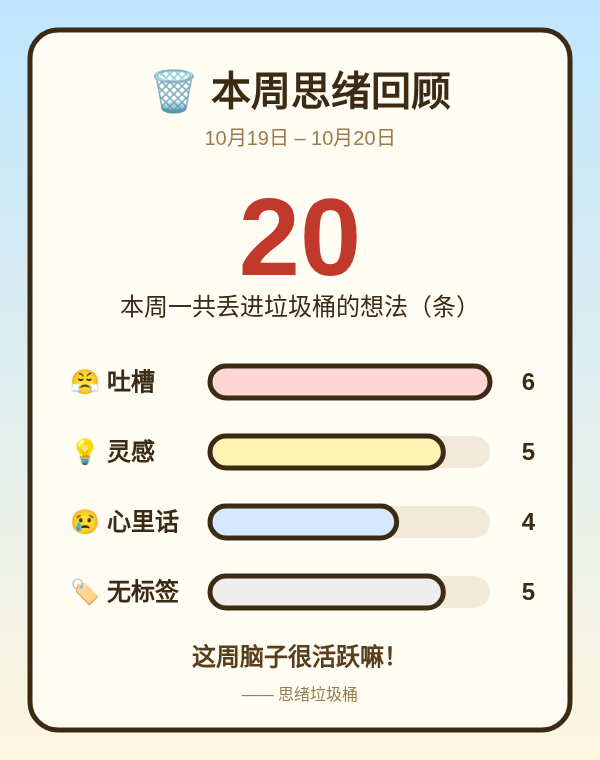
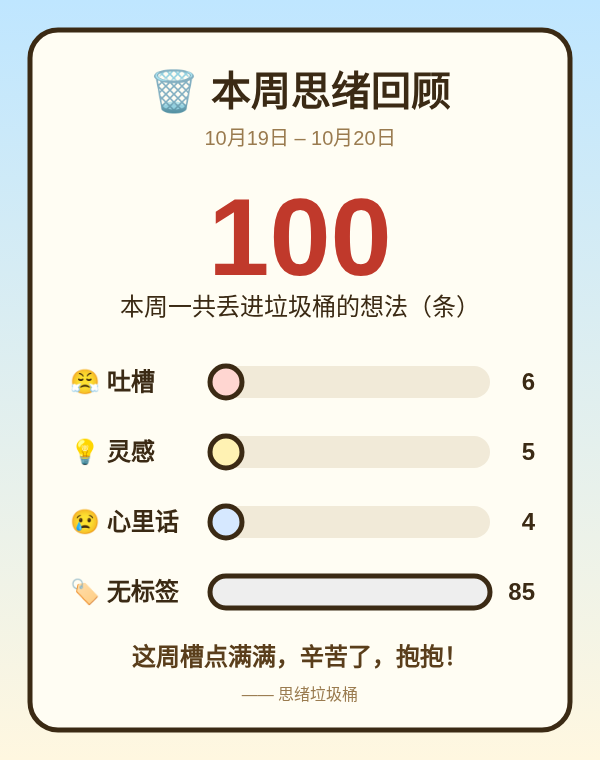
垃圾桶状态重做：去掉桶内纸堆，表情变化、20 条盖子翘起挤纸团、100 条喷纸拉锯；更新测试与截图

diff --git a/js/fill.js b/js/fill.js
@@ -1,24 +1,28 @@
-// 越吃越满：桶里的纸团随「未整理」想法数增多；满了会打嗝，提醒去 AI 整理
-export const FULL_AT = 20;   // 满桶阈值（未整理的条数）
-const LEVELS = 5;            // 纸堆层数
-// 每层几个纸团：[x, y, r]，从桶底往上堆
-const LAYERS = [
-  [[60, 205, 13], [88, 207, 14], [116, 206, 13], [142, 204, 12]],
-  [[66, 186, 13], [96, 188, 14], [126, 186, 13]],
-  [[56, 168, 12], [84, 170, 13], [112, 168, 13], [140, 170, 12]],
-  [[62, 150, 12], [92, 148, 13], [122, 150, 13], [148, 152, 10]],
-  [[52, 132, 11], [78, 128, 12], [104, 126, 13], [130, 129, 12], [154, 134, 10]],
-];
-export const levelFor = n => Math.min(LEVELS, Math.ceil((Math.min(n, FULL_AT) / FULL_AT) * LEVELS));
+// 越吃越满：按「未经 AI 整理」的想法条数改变垃圾桶状态（不再在桶里画纸堆，脸永远露在外面）
+//   0 条：笑脸        ≥1：不开心的脸
+//   ≥20：盖子合不上、微微翘起，纸团从盖子边挤出来；刚满 20（及之后每 5 条）打嗝提醒
+//   ≥100：纸团不停从桶口喷出，盖子拼命往下压、又被顶起来（拉锯抖动）
+export const FULL_AT = 20;
+export const BURST_AT = 100;
+export const stateFor = n => n >= BURST_AT ? 'struggle' : n >= FULL_AT ? 'ajar' : n > 0 ? 'unhappy' : 'happy';
+// 盖子边缘挤出的纸团 [x, y, r]（在盖子下、桶口上，不碰到脸）
+const PEEK = [[150, 46, 9], [166, 42, 8], [134, 49, 7], [176, 36, 7]];
+const ball = (x, y, r, cls = '', style = '') => `<circle class="${cls}" cx="${x}" cy="${y}" r="${r}" style="${style}" fill="#fffdf3" stroke="#b49a6a" stroke-width="2.5"/>`;
+let lastState;
 export function renderPile(unsorted) {
-  const g = document.getElementById('trash-pile'), lv = levelFor(unsorted);
-  g.innerHTML = LAYERS.slice(0, lv).flat().map(([x, y, r], i) =>
-    `<circle cx="${x}" cy="${y}" r="${r}" fill="${i % 3 ? '#fffdf3' : '#f3e7c9'}" stroke="#b49a6a" stroke-width="2"/>`).join('');
-  document.getElementById('trash').dataset.level = lv;
-  document.getElementById('trash').classList.toggle('full', unsorted >= FULL_AT);
-  return lv;
+  const t = document.getElementById('trash'), st = stateFor(unsorted);
+  t.dataset.state = st; t.dataset.unsorted = unsorted;
+  if (st === lastState) return st;
+  lastState = st;
+  const peek = document.getElementById('trash-peek'), burst = document.getElementById('trash-burst');
+  peek.innerHTML = st === 'ajar' || st === 'struggle' ? PEEK.map(([x, y, r], i) => ball(x, y, r, 'peek', `animation-delay:${-i * 0.37}s`)).join('') : '';
+  // 喷出的纸团：每个有自己的方向、距离和节奏，循环播放
+  burst.innerHTML = st === 'struggle' ? Array.from({ length: 18 }, (_, i) => {
+    const dx = (i % 2 ? 1 : -1) * (30 + (i * 37) % 90), dy = -(70 + (i * 53) % 80);
+    return ball(100 + (i % 5 - 2) * 18, 44, 8 + (i % 3) * 2.5, 'fly', `--dx:${dx}px;--dy:${dy}px;animation-duration:${1.1 + (i % 4) * 0.25}s;animation-delay:${-i * 0.21}s`);
+  }).join('') : '';
+  return st;
 }
-// 存完一条后调用：刚满 / 满后每多 5 条，打一次嗝
 export function shouldBurp(unsorted) { return unsorted >= FULL_AT && (unsorted - FULL_AT) % 5 === 0; }
 export function burp(toast) {
   const t = document.getElementById('trash');

diff --git a/css/style.css b/css/style.css
@@ -58,7 +58,6 @@ pre.result{white-space:pre-wrap;background:#fff;border:2px solid #ddd;padding:8p
 #trash.burp #trash-lid{animation:lidpop 1.1s ease-out}
 @keyframes burp{15%{transform:scale(1.08,.92)}35%{transform:scale(.94,1.08)}55%{transform:scale(1.03,.97)}}
 @keyframes lidpop{20%{transform:translateY(-28px) rotate(-12deg)}50%{transform:translateY(-4px)}}
-#trash.full #trash-mouth{d:path("M80 150 Q100 140 120 150")}
 .burp-bubble{position:absolute;top:-10px;left:62%;background:#fff;border:3px solid #3b2a14;border-radius:50%;padding:6px 12px;font-weight:bold;animation:burpup 1.6s ease-out forwards}
 @keyframes burpup{from{transform:translateY(20px) scale(.3);opacity:0}30%{opacity:1;transform:translateY(0) scale(1.1)}to{transform:translateY(-60px) scale(1);opacity:0}}
 
@@ -70,3 +69,24 @@ pre.result{white-space:pre-wrap;background:#fff;border:2px solid #ddd;padding:8p
 .note-item .acts{display:flex;flex-direction:column;gap:4px}
 .note-item .acts button{font-size:12px;padding:2px 6px}
 #panel{top:100px;height:calc(100% - 100px);border-top:4px solid #5a3e1b;border-top-left-radius:16px}
+
+/* ---- 垃圾桶状态（fill.js） ---- */
+#trash svg{overflow:visible}
+#trash .brow,#trash .mouth-sad{display:none}
+#trash:not([data-state=happy]) .brow,#trash:not([data-state=happy]) .mouth-sad{display:inline}
+#trash:not([data-state=happy]) .mouth-happy{display:none}
+#trash[data-state=happy] .brow,#trash:not([data-state]) .brow,#trash:not([data-state]) .mouth-sad{display:none}
+#trash:not([data-state]) .mouth-happy{display:inline}
+#trash-lid{transform-box:view-box;transform-origin:18px 36px}
+#trash[data-state=ajar] #trash-lid{transform:translateY(-6px) rotate(-9deg)}
+#trash[data-state=ajar]:not(.chew):not(.burp) #trash-lid{animation:ajar 2.4s ease-in-out infinite}
+@keyframes ajar{0%,100%{transform:translateY(-6px) rotate(-9deg)}50%{transform:translateY(-8px) rotate(-11deg)}}
+#trash .peek{transform-box:fill-box;transform-origin:center;animation:peek 1.6s ease-in-out infinite}
+@keyframes peek{0%,100%{transform:translate(0,0) scale(1)}50%{transform:translate(2px,-3px) scale(1.08,.92)}}
+#trash[data-state=struggle]:not(.chew):not(.burp) #trash-lid{animation:struggle 1.2s ease-in-out infinite}
+@keyframes struggle{0%{transform:translateY(-4px) rotate(-4deg)}20%{transform:translateY(0) rotate(-1deg)}28%{transform:translateY(-2px) rotate(-2deg)}
+ 45%{transform:translateY(-26px) rotate(-20deg)}52%{transform:translateY(-22px) rotate(-17deg)}58%{transform:translateY(-25px) rotate(-21deg)}100%{transform:translateY(-4px) rotate(-4deg)}}
+#trash[data-state=struggle] #trash-body{animation:shake .3s linear infinite}
+@keyframes shake{25%{transform:translateX(-2px) rotate(-1deg)}75%{transform:translateX(2px) rotate(1deg)}}
+#trash .fly{transform-box:fill-box;transform-origin:center;animation:fly 1.4s ease-out infinite}
+@keyframes fly{0%{transform:translate(0,0) scale(.4);opacity:0}15%{opacity:1}80%{opacity:1}100%{transform:translate(var(--dx),var(--dy)) rotate(200deg) scale(1);opacity:0}}

diff --git a/index.html b/index.html
@@ -18,20 +18,25 @@
 <button id="btn-add" title="新建对话框（快捷键 N 或 Ctrl+Alt+N）">+</button>
 <div id="trash-wrap">
   <div id="trash" title="把对话框拖进来；双击或狂点有惊喜">
-    <svg viewBox="0 0 200 230" width="100%" height="100%" aria-hidden="true">
+    <svg viewBox="0 0 200 230" width="100%" height="100%" aria-hidden="true" overflow="visible">
+      <g id="trash-peek"></g>
       <g id="trash-lid">
         <rect x="70" y="8" width="60" height="16" rx="6" fill="#6b8f71" stroke="#2b3a2e" stroke-width="5"/>
         <rect x="14" y="22" width="172" height="26" rx="10" fill="#8fc19a" stroke="#2b3a2e" stroke-width="6"/>
       </g>
       <g id="trash-body">
         <path d="M28 56 H172 L158 220 H42 Z" fill="#a8d5b1" stroke="#2b3a2e" stroke-width="6" stroke-linejoin="round"/>
-        <g id="trash-pile"></g>
         <circle cx="78" cy="110" r="9" fill="#2b3a2e"/><circle cx="122" cy="110" r="9" fill="#2b3a2e"/>
-        <path id="trash-mouth" d="M78 145 Q100 165 122 145" fill="none" stroke="#2b3a2e" stroke-width="6" stroke-linecap="round"/>
+        <g id="trash-face">
+          <path class="brow" d="M66 92 L90 100 M134 92 L110 100" stroke="#2b3a2e" stroke-width="6" stroke-linecap="round"/>
+          <path class="mouth-happy" d="M78 145 Q100 165 122 145" fill="none" stroke="#2b3a2e" stroke-width="6" stroke-linecap="round"/>
+          <path class="mouth-sad" d="M80 156 Q100 138 120 156" fill="none" stroke="#2b3a2e" stroke-width="6" stroke-linecap="round"/>
+        </g>
         <line x1="70" y1="180" x2="72" y2="205" stroke="#2b3a2e" stroke-width="4"/>
         <line x1="100" y1="180" x2="100" y2="205" stroke="#2b3a2e" stroke-width="4"/>
         <line x1="130" y1="180" x2="128" y2="205" stroke="#2b3a2e" stroke-width="4"/>
       </g>
+      <g id="trash-burst"></g>
     </svg>
   </div>
   <div id="counter">已吃掉 <b id="count">0</b> 条</div>

diff --git a/tests/smoke_test.py b/tests/smoke_test.py
@@ -10,6 +10,14 @@ with sync_playwright() as p:
     pg.on('console', lambda m: m.type == 'error' and errors.append(m.text))
     pg.on('pageerror', lambda e: errors.append(str(e)))
     pg.goto('http://127.0.0.1:8765/index.html'); pg.wait_for_selector('.bubble')
+    def face_ok():  # 脸（眼睛+嘴）不能被任何纸团盖住
+        r = pg.evaluate("""() => { const f = document.querySelector('#trash-face').getBoundingClientRect();
+          const hit = [...document.querySelectorAll('#trash-peek circle, #trash-burst circle')].filter(c => { const b = c.getBoundingClientRect();
+            return b.right > f.left && b.left < f.right && b.bottom > f.top && b.top < f.bottom; }); return hit.length; }""")
+        assert r == 0, f'{r} 个纸团盖住了脸'
+    def trash_shot(name):
+        t = pg.locator('#trash').bounding_box()
+        pg.screenshot(path=os.path.join(ROOT, 'docs', name), clip={'x': t['x'] - 140, 'y': t['y'] - 170, 'width': t['width'] + 280, 'height': t['height'] + 210})
     def drop(text, tag=None):
         bub = pg.locator('.bubble').first
         if tag: bub.locator(f'.tag-picker [data-tag={tag}]').click(force=True)
@@ -29,6 +37,9 @@ with sync_playwright() as p:
     assert pg.get_attribute('#btn-add', 'title').startswith('新建对话框')
     drop('老板又让我周末改方案，烦死了'); drop('想学做咖啡，下个月报个班', 'idea')
     assert pg.text_content('#count') == '2', pg.text_content('#count')
+    assert pg.get_attribute('#trash', 'data-state') == 'unhappy'
+    assert pg.locator('#trash .mouth-sad').is_visible() and not pg.locator('#trash .mouth-happy').is_visible()
+    face_ok(); pg.wait_for_timeout(1100); trash_shot('can-unhappy.png'); print('吃完变不开心 OK')
     n = pg.evaluate("""() => new Promise(r => { const q = indexedDB.open('thought-trash-bin'); q.onsuccess = () => {
         const g = q.result.transaction('notes').objectStore('notes').getAll(); g.onsuccess = () => r(g.result); }; })""")
     assert len(n) == 2 and all(x['text'] not in ('', ph) for x in n) and any('咖啡' in x['text'] for x in n), n
@@ -68,20 +79,32 @@ with sync_playwright() as p:
     assert pg.locator('.bubble').count() == c0 + 2 and 'abc' in pg.locator('.bubble textarea').nth(c0).input_value()
     pg.locator('.bubble').evaluate_all('bs => bs.forEach(b => b.remove())'); print('快捷键 OK')
     # 2. 越吃越满 + 打嗝
-    lv0 = int(pg.get_attribute('#trash', 'data-level'))
     pg.evaluate("async () => { const s = await import('/js/storage.js'); const t = ['会议又拖堂了','想换个工位','学点 Python','周报又写不完','领导画饼','想去旅行','加班到十点','想养只猫','中午吃啥','需求又改了','想早睡','买个人体工学椅','同事好吵','想学吉他','工资何时涨','咖啡喝太多','想辞职','周末去爬山']; const tg = ['rant','idea','heart','']; for (let i = 0; i < 17; i++) await s.saveNote(t[i], tg[i % 4]); }")
     pg.keyboard.press('Control+Alt+n'); drop('电脑又卡了', 'rant'); pg.wait_for_timeout(1200)
-    assert pg.text_content('#count') == '20' and pg.get_attribute('#trash', 'data-level') == '5' and lv0 < 5
+    assert pg.text_content('#count') == '20' and pg.get_attribute('#trash', 'data-state') == 'ajar'
     assert 'burp' in pg.get_attribute('#trash', 'class') and 'AI整理' in pg.text_content('#toast')
-    pg.wait_for_timeout(150); pg.screenshot(path=os.path.join(ROOT, 'docs', 'full-can.png'))
-    print('越吃越满 + 打嗝 OK，纸堆层级', lv0, '-> 5')
+    pg.wait_for_timeout(1300)
+    assert pg.locator('#trash-peek circle').count() >= 3 and pg.locator('#trash-burst circle').count() == 0
+    ang = pg.evaluate("() => new DOMMatrix(getComputedStyle(document.querySelector('#trash-lid')).transform).b")
+    assert ang < -0.05, ang  # 盖子翘起
+    face_ok(); trash_shot('can-20.png')
+    print('越吃越满 20：盖子翘起 + 纸团挤出 + 打嗝 OK')
+    pg.evaluate("async () => { const s = await import('/js/storage.js'); for (let i = 0; i < 80; i++) await s.saveNote('第 ' + i + ' 条乱想', ''); (await import('/js/fill.js')).renderPile(await s.countUnsorted()); (await import('/js/trashbin.js')).setCount(await s.countNotes()); }")
+    assert pg.get_attribute('#trash', 'data-state') == 'struggle' and pg.locator('#trash-burst circle').count() >= 8
+    a = []
+    for _ in range(12): a.append(pg.evaluate("() => new DOMMatrix(getComputedStyle(document.querySelector('#trash-lid')).transform).f")); pg.wait_for_timeout(100)
+    assert max(a) - min(a) > 8, a  # 盖子上下拉锯
+    face_ok(); pg.wait_for_timeout(400); trash_shot('can-100.png')
+    print('100 条：纸团喷出 + 盖子拉锯 OK')
+    pg.evaluate("async () => { const s = await import('/js/storage.js'); const ns = await s.listNotes(); await s.markOrganized(ns.filter(n => n.text.startsWith('第 ')).map(n => n.id)); (await import('/js/fill.js')).renderPile(await s.countUnsorted()); }")
+    assert pg.get_attribute('#trash', 'data-state') == 'ajar'
     # 3. 本周回顾卡片 + 下载 PNG
     pg.click('#btn-review'); pg.wait_for_selector('#review canvas')
     with pg.expect_download() as dl: pg.click('#review-dl')
     dl.value.save_as(os.path.join(ROOT, 'docs', 'review-card.png'))
     assert os.path.getsize(os.path.join(ROOT, 'docs', 'review-card.png')) > 10000; pg.click('#review-close')
     st = pg.evaluate("async () => { const r = await import('/js/review.js'), s = await import('/js/storage.js'); return r.weekStats(await s.listNotes()); }")
-    assert st['total'] == 20 and st['by'] == {'rant': 6, 'idea': 5, 'heart': 4, 'none': 5}, st
+    assert st['total'] == 100 and st['by'] == {'rant': 6, 'idea': 5, 'heart': 4, 'none': 85}, st
     fri = b.new_context(viewport={'width': 1280, 'height': 800}); fp2 = fri.new_page()
     fp2.on('pageerror', lambda e: errors.append(str(e)))
     fp2.clock.set_fixed_time('2026-10-23T10:00:00')  # 周五
@@ -94,6 +117,7 @@ with sync_playwright() as p:
     fp.goto('http://127.0.0.1:8765/index.html'); fp.wait_for_selector('.bubble')
     vals = fp.locator('.bubble textarea').evaluate_all('ts => ts.map(t => [t.value, t.placeholder])')
     assert vals and all(v == '' and ph for v, ph in vals), vals
+    assert fp.get_attribute('#trash', 'data-state') == 'happy' and fp.locator('#trash .mouth-happy').is_visible()
     fp.evaluate('document.activeElement.blur()'); fp.wait_for_timeout(500)
     fp.screenshot(path=os.path.join(ROOT, 'docs', 'screenshot.png'))
     print('默认状态全为空提示语 OK:', [ph for _, ph in vals])

diff --git a/README.md b/README.md
@@ -4,9 +4,9 @@
 
 ![截图](docs/screenshot.png)
 
-| 满桶打嗝 | 本周回顾卡片 |
+| 满 20 条：盖子合不上 | 本周回顾卡片 |
 |---|---|
-| ![满桶](docs/full-can.png) | ![回顾卡片](docs/review-card.png) |
+| ![满桶](docs/can-20.png) | ![回顾卡片](docs/review-card.png) |
 
 ## 功能（第一版）
 - **滚动吐槽横幅**：顶部循环播放吐槽上班的句子（在 `js/banner.js` 里改）。
@@ -17,7 +17,7 @@
 - **想法列表**：按时间倒序查看，可搜索、删除、勾选。
 - **AI 整理**：在「设置」里填 DeepSeek 密钥（只存在本浏览器），一键把想法整理成项目 / 步骤 / 优先级，结果存成 `.md`。没有密钥时可「一键复制整理提示词」，贴到豆包或 WorkBuddy。
 - **心情标签**：每个对话框可选 😤 吐槽 / 💡 灵感 / 😢 心里话（默认无），标签写进 `.md` 开头的 front matter；爆出的纸片按标签着色；列表可按标签筛选。
-- **越吃越满**：桶里的纸团随「未整理」的想法变多（5 层）；满 20 条会打个嗝，提醒你去「AI整理」。整理过的想法不再算进去。
+- **越吃越满**：桶会表情变化——有没整理的想法就不开心，AI 整理完又笑了；满 20 条盖子合不上、纸团从边上挤出来并打嗝提醒；超过 100 条纸团狂喷、盖子拼命往下压又被顶起来。
 - **本周回顾**：顶部「📅 本周回顾」查看本周各标签条数和总数的卡片，可下载 PNG 分享；每周五第一次打开时自动弹出一次。
 - **快捷键**：没在打字时按 **N**，或随时按 **Ctrl+Alt+N**，新建一个对话框并直接开始输入。
 - **自定义横幅**：在「设置 → 我的横幅」里写自己的吐槽，或在想法列表里点「加到横幅」；和默认文案混着播放，可随时移除（存在浏览器 localStorage）。
